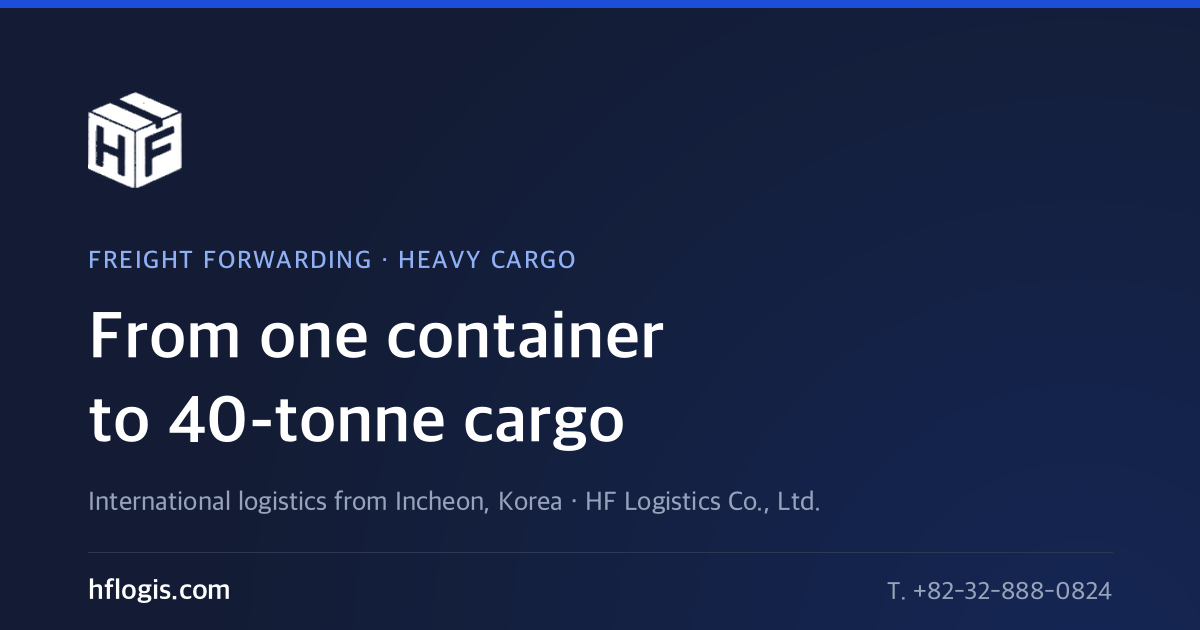
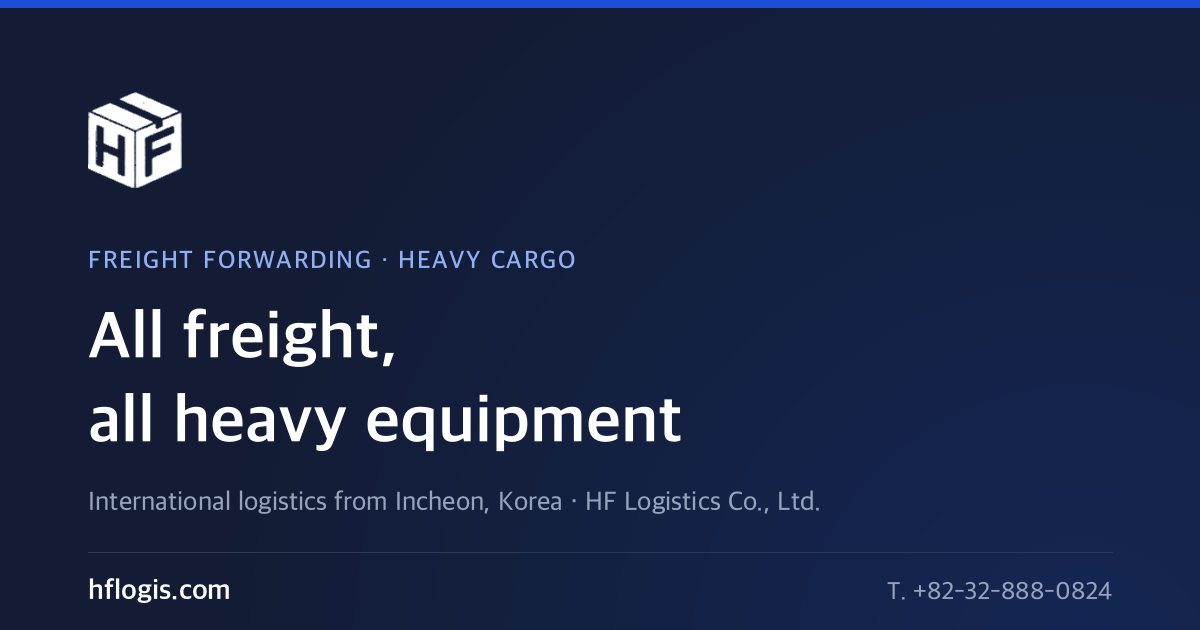
'40톤' 표현을 전면 제거
- 홈 메타 설명 / 회사소개 도입부: '컨테이너 한 박스부터 40톤 중장비까지'
  -> '화물도 중장비도'
- 홈 '왜 HF인가': '소형 택배 화물부터 40톤 건설기계까지' -> '소형 택배 화물도 중장비도'
- 공유 카드(OG) 문구 교체 후 이미지 3장 재생성
- KPI 타일 '40톤'은 숫자 타일이라 차량 보유 '77대'로 교체
  (협력사 삼복로지스틱 보유분이므로 캡션에 명시)

영어·중국어 동일 반영. 40톤은 상한으로 읽혀 취급 범위를 좁게 보이게 합니다.

Changed region(s): [[0.0617, 0.6032, 0.5858, 0.7238], [0.0617, 0.4825, 0.555, 0.6032]]

diff --git a/index.html b/index.html
@@ -4,7 +4,7 @@
 <meta charset="utf-8">
 <meta name="viewport" content="width=device-width, initial-scale=1">
 <title>HF 로지스틱스</title>
-<meta name="description" content="컨테이너 한 박스부터 40톤 중장비까지, 인천에서 시작하는 물류. 국제물류주선과 중장비 운반을 두 축으로 운영하는 주식회사 에이치에프로지스틱스.">
+<meta name="description" content="화물도 중장비도, 인천에서 시작하는 물류. 국제물류주선과 중장비 운반을 두 축으로 운영하는 주식회사 에이치에프로지스틱스.">
 <link rel="canonical" href="https://hflogis.com/">
 <link rel="alternate" hreflang="ko" href="https://hflogis.com/">
 <link rel="alternate" hreflang="en" href="https://hflogis.com/en/">
@@ -15,8 +15,8 @@
 <meta property="og:site_name" content="HF 로지스틱스">
 <meta property="og:url" content="https://hflogis.com/">
 <meta property="og:title" content="주식회사 에이치에프로지스틱스">
-<meta property="og:description" content="컨테이너 한 박스부터 40톤 중장비까지, 인천에서 시작하는 물류. 국제물류주선과 중장비 운반을 두 축으로 운영하는 주식회사 에이치에프로지스틱스.">
-<meta property="og:image" content="https://hflogis.com/assets/img/og-ko.png?v=abbba7dc">
+<meta property="og:description" content="화물도 중장비도, 인천에서 시작하는 물류. 국제물류주선과 중장비 운반을 두 축으로 운영하는 주식회사 에이치에프로지스틱스.">
+<meta property="og:image" content="https://hflogis.com/assets/img/og-ko.png?v=75df4424">
 <meta property="og:image:type" content="image/png">
 <meta property="og:image:width" content="1200">
 <meta property="og:image:height" content="630">
@@ -26,8 +26,8 @@
 <meta property="og:locale:alternate" content="zh_CN">
 <meta name="twitter:card" content="summary_large_image">
 <meta name="twitter:title" content="주식회사 에이치에프로지스틱스">
-<meta name="twitter:description" content="컨테이너 한 박스부터 40톤 중장비까지, 인천에서 시작하는 물류. 국제물류주선과 중장비 운반을 두 축으로 운영하는 주식회사 에이치에프로지스틱스.">
-<meta name="twitter:image" content="https://hflogis.com/assets/img/og-ko.png?v=abbba7dc">
+<meta name="twitter:description" content="화물도 중장비도, 인천에서 시작하는 물류. 국제물류주선과 중장비 운반을 두 축으로 운영하는 주식회사 에이치에프로지스틱스.">
+<meta name="twitter:image" content="https://hflogis.com/assets/img/og-ko.png?v=75df4424">
 <meta name="twitter:image:alt" content="HF 로지스틱스 — 국제물류주선 · 중장비 운반">
 
 <meta name="theme-color" media="(prefers-color-scheme: light)" content="#FFFFFF">
@@ -39,7 +39,7 @@
 <link rel="stylesheet" href="https://fonts.googleapis.com/css2?family=Noto+Sans+KR:wght@400;500;700;800&family=JetBrains+Mono:wght@400;500;600;700&display=swap">
 <link rel="stylesheet" href="assets/css/site.css?v=54728eac">
 <style>:root{--ff-sans:"Noto Sans KR","Pretendard",-apple-system,BlinkMacSystemFont,"Apple SD Gothic Neo",sans-serif}body{word-break:keep-all}</style>
-<script type="application/ld+json">{"@context":"https://schema.org","@type":"Organization","name":"주식회사 에이치에프로지스틱스","alternateName":"HF 로지스틱스","url":"https://hflogis.com/","logo":"https://hflogis.com/assets/img/logo-dark.png","image":"https://hflogis.com/assets/img/og-ko.png","description":"컨테이너 한 박스부터 40톤 중장비까지, 인천에서 시작하는 물류. 국제물류주선과 중장비 운반을 두 축으로 운영하는 주식회사 에이치에프로지스틱스.","telephone":"+82-32-888-0824","faxNumber":"+82-32-888-0825","email":"dydw0625@nate.com","address":{"@type":"PostalAddress","streetAddress":"인천광역시 중구 서해대로 342, 풍천빌딩 505호","addressLocality":"인천광역시","addressCountry":"KR"}}</script>
+<script type="application/ld+json">{"@context":"https://schema.org","@type":"Organization","name":"주식회사 에이치에프로지스틱스","alternateName":"HF 로지스틱스","url":"https://hflogis.com/","logo":"https://hflogis.com/assets/img/logo-dark.png","image":"https://hflogis.com/assets/img/og-ko.png","description":"화물도 중장비도, 인천에서 시작하는 물류. 국제물류주선과 중장비 운반을 두 축으로 운영하는 주식회사 에이치에프로지스틱스.","telephone":"+82-32-888-0824","faxNumber":"+82-32-888-0825","email":"dydw0625@nate.com","address":{"@type":"PostalAddress","streetAddress":"인천광역시 중구 서해대로 342, 풍천빌딩 505호","addressLocality":"인천광역시","addressCountry":"KR"}}</script>
 </head>
 <body>
 <div class="utility">
@@ -237,7 +237,7 @@
   <div class="wrap"><div class="hnav" role="tablist"><button class="hdot" type="button" role="tab" aria-selected="true" tabindex="0"><span class="n">01</span><span class="t">해상운송 FCL · LCL</span><i class="bar"></i></button><button class="hdot" type="button" role="tab" aria-selected="false" tabindex="-1"><span class="n">02</span><span class="t">항공운송 · 자유무역지역</span><i class="bar"></i></button><button class="hdot" type="button" role="tab" aria-selected="false" tabindex="-1"><span class="n">03</span><span class="t">중장비 · 중량물 운송</span><i class="bar"></i></button></div></div>
 </section>
 
-<section class="facts"><div class="wrap"><div class="grid"><div class="cell"><p class="v">2,600<small>평</small></p><p class="k">인천항 보세창고 실내면적<br>야드 1,815평 · 특허보세구역</p></div><div class="cell"><p class="v">2<small>곳</small></p><p class="k">보세 반입 거점<br>인천항 · 인천공항 자유무역지역</p></div><div class="cell"><p class="v">3<small>개</small></p><p class="k">중국 집화 거점<br>위해 운영 중 · 심천 · 항저우 예정</p></div><div class="cell"><p class="v">40<small>톤</small></p><p class="k">중장비까지 단일 창구 처리<br>소형 택배 화물부터 건설기계까지</p></div></div></div></section>
+<section class="facts"><div class="wrap"><div class="grid"><div class="cell"><p class="v">2,600<small>평</small></p><p class="k">인천항 보세창고 실내면적<br>야드 1,815평 · 특허보세구역</p></div><div class="cell"><p class="v">2<small>곳</small></p><p class="k">보세 반입 거점<br>인천항 · 인천공항 자유무역지역</p></div><div class="cell"><p class="v">3<small>개</small></p><p class="k">중국 집화 거점<br>위해 운영 중 · 심천 · 항저우 예정</p></div><div class="cell"><p class="v">77<small>대</small></p><p class="k">국내 배송 차량 운용<br>협력사 보유 기준 · 냉장 · 냉동 · 무진동 포함</p></div></div></div></section>
 
 <section class="sec"><div class="wrap">
   <div class="sec-head"><div class="t"><p class="eyebrow">Business Structure</p>
@@ -281,7 +281,7 @@
 
 <section class="sec"><div class="wrap">
   <div class="sec-head"><div class="t"><p class="eyebrow">Why HF Logistics</p><h2>HF를 선택해야 하는 이유</h2></div></div>
-  <div class="reasons"><div class="rr"><span class="n">01</span><h3>인천항 · 인천세관 인접</h3><p>본사와 운영 거점이 인천 중구에 위치합니다. 컨테이너 화물도, 중장비 부두 반입도 현장 대응 속도가 다릅니다.</p></div><div class="rr"><span class="n">02</span><h3>일반 화물과 중량물을 한 곳에서</h3><p>소형 택배 화물부터 40톤 건설기계까지 한 회사가 처리합니다. 업체를 나눠 쓰며 책임 공방할 일이 없습니다.</p></div><div class="rr"><span class="n">03</span><h3>제도 변화 선제 대응</h3><p>2026년 전자상거래 통관 개편에 맞춰 검증 · 알림 체계를 갖췄습니다. 제도 리스크를 화주사가 떠안지 않도록 합니다.</p></div><div class="rr"><span class="n">04</span><h3>중국 현지부터 국내 현장까지</h3><p>중장비는 부두에 내려놓는다고 끝이 아닙니다. 공장 상차부터 통관 · 현장 하차까지 한 창구로 갑니다.</p></div></div>
+  <div class="reasons"><div class="rr"><span class="n">01</span><h3>인천항 · 인천세관 인접</h3><p>본사와 운영 거점이 인천 중구에 위치합니다. 컨테이너 화물도, 중장비 부두 반입도 현장 대응 속도가 다릅니다.</p></div><div class="rr"><span class="n">02</span><h3>일반 화물과 중량물을 한 곳에서</h3><p>소형 택배 화물도 중장비도 한 회사가 처리합니다. 업체를 나눠 쓰며 책임 공방할 일이 없습니다.</p></div><div class="rr"><span class="n">03</span><h3>제도 변화 선제 대응</h3><p>2026년 전자상거래 통관 개편에 맞춰 검증 · 알림 체계를 갖췄습니다. 제도 리스크를 화주사가 떠안지 않도록 합니다.</p></div><div class="rr"><span class="n">04</span><h3>중국 현지부터 국내 현장까지</h3><p>중장비는 부두에 내려놓는다고 끝이 아닙니다. 공장 상차부터 통관 · 현장 하차까지 한 창구로 갑니다.</p></div></div>
 </div></section>
 
 <section class="sec panel"><div class="wrap">

diff --git a/en/index.html b/en/index.html
@@ -4,7 +4,7 @@
 <meta charset="utf-8">
 <meta name="viewport" content="width=device-width, initial-scale=1">
 <title>HF Logistics</title>
-<meta name="description" content="From a single container to 40-tonne construction equipment. HF Logistics runs freight forwarding and heavy cargo transport from Incheon, Korea.">
+<meta name="description" content="Freight and heavy equipment alike. HF Logistics runs freight forwarding and heavy cargo transport from Incheon, Korea.">
 <link rel="canonical" href="https://hflogis.com/en/">
 <link rel="alternate" hreflang="ko" href="https://hflogis.com/">
 <link rel="alternate" hreflang="en" href="https://hflogis.com/en/">
@@ -15,8 +15,8 @@
 <meta property="og:site_name" content="HF Logistics">
 <meta property="og:url" content="https://hflogis.com/en/">
 <meta property="og:title" content="HF LOGISTICS CO., LTD.">
-<meta property="og:description" content="From a single container to 40-tonne construction equipment. HF Logistics runs freight forwarding and heavy cargo transport from Incheon, Korea.">
-<meta property="og:image" content="https://hflogis.com/assets/img/og-en.png?v=abbba7dc">
+<meta property="og:description" content="Freight and heavy equipment alike. HF Logistics runs freight forwarding and heavy cargo transport from Incheon, Korea.">
+<meta property="og:image" content="https://hflogis.com/assets/img/og-en.png?v=75df4424">
 <meta property="og:image:type" content="image/png">
 <meta property="og:image:width" content="1200">
 <meta property="og:image:height" content="630">
@@ -26,8 +26,8 @@
 <meta property="og:locale:alternate" content="zh_CN">
 <meta name="twitter:card" content="summary_large_image">
 <meta name="twitter:title" content="HF LOGISTICS CO., LTD.">
-<meta name="twitter:description" content="From a single container to 40-tonne construction equipment. HF Logistics runs freight forwarding and heavy cargo transport from Incheon, Korea.">
-<meta name="twitter:image" content="https://hflogis.com/assets/img/og-en.png?v=abbba7dc">
+<meta name="twitter:description" content="Freight and heavy equipment alike. HF Logistics runs freight forwarding and heavy cargo transport from Incheon, Korea.">
+<meta name="twitter:image" content="https://hflogis.com/assets/img/og-en.png?v=75df4424">
 <meta name="twitter:image:alt" content="HF Logistics — freight forwarding and heavy cargo transport">
 
 <meta name="theme-color" media="(prefers-color-scheme: light)" content="#FFFFFF">
@@ -39,7 +39,7 @@
 <link rel="stylesheet" href="https://fonts.googleapis.com/css2?family=Inter:wght@400;500;600;700;800&family=JetBrains+Mono:wght@400;500;600;700&display=swap">
 <link rel="stylesheet" href="../assets/css/site.css?v=54728eac">
 <style>:root{--ff-sans:"Inter",-apple-system,BlinkMacSystemFont,"Segoe UI",Helvetica,Arial,sans-serif}body{word-break:normal}</style>
-<script type="application/ld+json">{"@context":"https://schema.org","@type":"Organization","name":"HF LOGISTICS CO., LTD.","alternateName":"HF Logistics","url":"https://hflogis.com/en/","logo":"https://hflogis.com/assets/img/logo-dark.png","image":"https://hflogis.com/assets/img/og-en.png","description":"From a single container to 40-tonne construction equipment. HF Logistics runs freight forwarding and heavy cargo transport from Incheon, Korea.","telephone":"+82-32-888-0824","faxNumber":"+82-32-888-0825","email":"dydw0625@nate.com","address":{"@type":"PostalAddress","streetAddress":"#505 Pungcheon Bldg, 342 Seohae-daero, Jung-gu, Incheon, Korea","addressLocality":"Incheon","addressCountry":"KR"}}</script>
+<script type="application/ld+json">{"@context":"https://schema.org","@type":"Organization","name":"HF LOGISTICS CO., LTD.","alternateName":"HF Logistics","url":"https://hflogis.com/en/","logo":"https://hflogis.com/assets/img/logo-dark.png","image":"https://hflogis.com/assets/img/og-en.png","description":"Freight and heavy equipment alike. HF Logistics runs freight forwarding and heavy cargo transport from Incheon, Korea.","telephone":"+82-32-888-0824","faxNumber":"+82-32-888-0825","email":"dydw0625@nate.com","address":{"@type":"PostalAddress","streetAddress":"#505 Pungcheon Bldg, 342 Seohae-daero, Jung-gu, Incheon, Korea","addressLocality":"Incheon","addressCountry":"KR"}}</script>
 </head>
 <body>
 <div class="utility">
@@ -237,7 +237,7 @@
   <div class="wrap"><div class="hnav" role="tablist"><button class="hdot" type="button" role="tab" aria-selected="true" tabindex="0"><span class="n">01</span><span class="t">Sea Freight FCL · LCL</span><i class="bar"></i></button><button class="hdot" type="button" role="tab" aria-selected="false" tabindex="-1"><span class="n">02</span><span class="t">Air Freight · Free Trade Zone</span><i class="bar"></i></button><button class="hdot" type="button" role="tab" aria-selected="false" tabindex="-1"><span class="n">03</span><span class="t">Heavy Cargo Transport</span><i class="bar"></i></button></div></div>
 </section>
 
-<section class="facts"><div class="wrap"><div class="grid"><div class="cell"><p class="v">8,600<small>m²</small></p><p class="k">Indoor bonded warehouse, Incheon Port<br>Plus 6,000 m² yard · Licensed bonded area</p></div><div class="cell"><p class="v">2<small>sites</small></p><p class="k">Bonded entry points<br>Incheon Port · Incheon Airport FTZ</p></div><div class="cell"><p class="v">3<small>hubs</small></p><p class="k">Consolidation hubs in China<br>Weihai live · Shenzhen &amp; Hangzhou planned</p></div><div class="cell"><p class="v">40<small>t</small></p><p class="k">Handled through one desk<br>From parcels to construction equipment</p></div></div></div></section>
+<section class="facts"><div class="wrap"><div class="grid"><div class="cell"><p class="v">8,600<small>m²</small></p><p class="k">Indoor bonded warehouse, Incheon Port<br>Plus 6,000 m² yard · Licensed bonded area</p></div><div class="cell"><p class="v">2<small>sites</small></p><p class="k">Bonded entry points<br>Incheon Port · Incheon Airport FTZ</p></div><div class="cell"><p class="v">3<small>hubs</small></p><p class="k">Consolidation hubs in China<br>Weihai live · Shenzhen &amp; Hangzhou planned</p></div><div class="cell"><p class="v">77<small>units</small></p><p class="k">Domestic delivery vehicles<br>Partner fleet &#183; incl. refrigerated, frozen and air-ride</p></div></div></div></section>
 
 <section class="sec"><div class="wrap">
   <div class="sec-head"><div class="t"><p class="eyebrow">Business Structure</p>
@@ -281,7 +281,7 @@
 
 <section class="sec"><div class="wrap">
   <div class="sec-head"><div class="t"><p class="eyebrow">Why HF Logistics</p><h2>Why shippers choose HF</h2></div></div>
-  <div class="reasons"><div class="rr"><span class="n">01</span><h3>Next to Incheon Port and Customs</h3><p>Our head office and operations sit in Jung-gu, Incheon. That proximity shows in how fast we respond, for containers and for heavy equipment alike.</p></div><div class="rr"><span class="n">02</span><h3>General cargo and heavy lift in one place</h3><p>One company handles everything from small parcels to 40-tonne machines. No splitting work between vendors and no arguments over who is responsible.</p></div><div class="rr"><span class="n">03</span><h3>Ahead of regulatory change</h3><p>We built our verification and alerting workflow for Korea's 2026 e-commerce customs reform, so the regulatory risk does not land on the shipper.</p></div><div class="rr"><span class="n">04</span><h3>From the Chinese factory to the Korean site</h3><p>Heavy equipment is not finished when it lands at the quay. Loading at the factory, clearance and final drop-off all run through one desk.</p></div></div>
+  <div class="reasons"><div class="rr"><span class="n">01</span><h3>Next to Incheon Port and Customs</h3><p>Our head office and operations sit in Jung-gu, Incheon. That proximity shows in how fast we respond, for containers and for heavy equipment alike.</p></div><div class="rr"><span class="n">02</span><h3>General cargo and heavy lift in one place</h3><p>One company handles everything from small parcels to heavy machinery. No splitting work between vendors and no arguments over who is responsible.</p></div><div class="rr"><span class="n">03</span><h3>Ahead of regulatory change</h3><p>We built our verification and alerting workflow for Korea's 2026 e-commerce customs reform, so the regulatory risk does not land on the shipper.</p></div><div class="rr"><span class="n">04</span><h3>From the Chinese factory to the Korean site</h3><p>Heavy equipment is not finished when it lands at the quay. Loading at the factory, clearance and final drop-off all run through one desk.</p></div></div>
 </div></section>
 
 <section class="sec panel"><div class="wrap">

diff --git a/zh/index.html b/zh/index.html
@@ -4,7 +4,7 @@
 <meta charset="utf-8">
 <meta name="viewport" content="width=device-width, initial-scale=1">
 <title>HF物流</title>
-<meta name="description" content="从一个集装箱到40吨重型设备，物流始于仁川。HF物流以国际物流运输代理和重型设备运输为两大支柱。">
+<meta name="description" content="货物与重型设备，物流始于仁川。HF物流以国际物流运输代理和重型设备运输为两大支柱。">
 <link rel="canonical" href="https://hflogis.com/zh/">
 <link rel="alternate" hreflang="ko" href="https://hflogis.com/">
 <link rel="alternate" hreflang="en" href="https://hflogis.com/en/">
@@ -15,8 +15,8 @@
 <meta property="og:site_name" content="HF物流">
 <meta property="og:url" content="https://hflogis.com/zh/">
 <meta property="og:title" content="HF物流株式会社">
-<meta property="og:description" content="从一个集装箱到40吨重型设备，物流始于仁川。HF物流以国际物流运输代理和重型设备运输为两大支柱。">
-<meta property="og:image" content="https://hflogis.com/assets/img/og-zh.png?v=abbba7dc">
+<meta property="og:description" content="货物与重型设备，物流始于仁川。HF物流以国际物流运输代理和重型设备运输为两大支柱。">
+<meta property="og:image" content="https://hflogis.com/assets/img/og-zh.png?v=75df4424">
 <meta property="og:image:type" content="image/png">
 <meta property="og:image:width" content="1200">
 <meta property="og:image:height" content="630">
@@ -26,8 +26,8 @@
 <meta property="og:locale:alternate" content="en_US">
 <meta name="twitter:card" content="summary_large_image">
 <meta name="twitter:title" content="HF物流株式会社">
-<meta name="twitter:description" content="从一个集装箱到40吨重型设备，物流始于仁川。HF物流以国际物流运输代理和重型设备运输为两大支柱。">
-<meta name="twitter:image" content="https://hflogis.com/assets/img/og-zh.png?v=abbba7dc">
+<meta name="twitter:description" content="货物与重型设备，物流始于仁川。HF物流以国际物流运输代理和重型设备运输为两大支柱。">
+<meta name="twitter:image" content="https://hflogis.com/assets/img/og-zh.png?v=75df4424">
 <meta name="twitter:image:alt" content="HF物流 — 国际物流运输 · 重型设备运输">
 
 <meta name="theme-color" media="(prefers-color-scheme: light)" content="#FFFFFF">
@@ -39,7 +39,7 @@
 <link rel="stylesheet" href="https://fonts.googleapis.com/css2?family=Noto+Sans+SC:wght@400;500;700;900&family=JetBrains+Mono:wght@400;500;600;700&display=swap">
 <link rel="stylesheet" href="../assets/css/site.css?v=54728eac">
 <style>:root{--ff-sans:"Noto Sans SC","PingFang SC","Microsoft YaHei",-apple-system,sans-serif}body{word-break:normal}</style>
-<script type="application/ld+json">{"@context":"https://schema.org","@type":"Organization","name":"HF物流株式会社","alternateName":"HF物流","url":"https://hflogis.com/zh/","logo":"https://hflogis.com/assets/img/logo-dark.png","image":"https://hflogis.com/assets/img/og-zh.png","description":"从一个集装箱到40吨重型设备，物流始于仁川。HF物流以国际物流运输代理和重型设备运输为两大支柱。","telephone":"+82-32-888-0824","faxNumber":"+82-32-888-0825","email":"dydw0625@nate.com","address":{"@type":"PostalAddress","streetAddress":"韩国仁川广域市中区西海大路342号 丰川大厦505室","addressLocality":"仁川","addressCountry":"KR"}}</script>
+<script type="application/ld+json">{"@context":"https://schema.org","@type":"Organization","name":"HF物流株式会社","alternateName":"HF物流","url":"https://hflogis.com/zh/","logo":"https://hflogis.com/assets/img/logo-dark.png","image":"https://hflogis.com/assets/img/og-zh.png","description":"货物与重型设备，物流始于仁川。HF物流以国际物流运输代理和重型设备运输为两大支柱。","telephone":"+82-32-888-0824","faxNumber":"+82-32-888-0825","email":"dydw0625@nate.com","address":{"@type":"PostalAddress","streetAddress":"韩国仁川广域市中区西海大路342号 丰川大厦505室","addressLocality":"仁川","addressCountry":"KR"}}</script>
 </head>
 <body>
 <div class="utility">
@@ -237,7 +237,7 @@
   <div class="wrap"><div class="hnav" role="tablist"><button class="hdot" type="button" role="tab" aria-selected="true" tabindex="0"><span class="n">01</span><span class="t">海运 FCL · LCL</span><i class="bar"></i></button><button class="hdot" type="button" role="tab" aria-selected="false" tabindex="-1"><span class="n">02</span><span class="t">空运 · 自由贸易区</span><i class="bar"></i></button><button class="hdot" type="button" role="tab" aria-selected="false" tabindex="-1"><span class="n">03</span><span class="t">重型设备运输</span><i class="bar"></i></button></div></div>
 </section>
 
-<section class="facts"><div class="wrap"><div class="grid"><div class="cell"><p class="v">8,600<small>㎡</small></p><p class="k">仁川港保税仓库室内面积<br>另有堆场6,000㎡ · 特许保税区</p></div><div class="cell"><p class="v">2<small>处</small></p><p class="k">保税入库据点<br>仁川港 · 仁川机场自由贸易区</p></div><div class="cell"><p class="v">3<small>个</small></p><p class="k">中国集货据点<br>威海运营中 · 深圳、杭州筹备中</p></div><div class="cell"><p class="v">40<small>吨</small></p><p class="k">最重可单一窗口处理<br>从小件快递到工程机械</p></div></div></div></section>
+<section class="facts"><div class="wrap"><div class="grid"><div class="cell"><p class="v">8,600<small>㎡</small></p><p class="k">仁川港保税仓库室内面积<br>另有堆场6,000㎡ · 特许保税区</p></div><div class="cell"><p class="v">2<small>处</small></p><p class="k">保税入库据点<br>仁川港 · 仁川机场自由贸易区</p></div><div class="cell"><p class="v">3<small>个</small></p><p class="k">中国集货据点<br>威海运营中 · 深圳、杭州筹备中</p></div><div class="cell"><p class="v">77<small>辆</small></p><p class="k">韩国境内配送车辆<br>合作方保有 · 含冷藏、冷冻、无振动车辆</p></div></div></div></section>
 
 <section class="sec"><div class="wrap">
   <div class="sec-head"><div class="t"><p class="eyebrow">Business Structure</p>
@@ -281,7 +281,7 @@
 
 <section class="sec"><div class="wrap">
   <div class="sec-head"><div class="t"><p class="eyebrow">Why HF Logistics</p><h2>选择HF的理由</h2></div></div>
-  <div class="reasons"><div class="rr"><span class="n">01</span><h3>毗邻仁川港与仁川海关</h3><p>总部与运营据点位于仁川中区。无论是集装箱货物还是重型设备进港，现场响应速度都不一样。</p></div><div class="rr"><span class="n">02</span><h3>普货与重件一站处理</h3><p>从小件快递到40吨工程机械，由一家公司完成。无需分包给多家，也不会出现责任推诿。</p></div><div class="rr"><span class="n">03</span><h3>提前应对制度变化</h3><p>已按2026年跨境电商通关改革建立验证与提醒机制，不让制度风险落到货主身上。</p></div><div class="rr"><span class="n">04</span><h3>从中国现场到韩国工地</h3><p>重型设备卸到码头并不算结束。从工厂装车到通关、现场卸车，全程一个窗口。</p></div></div>
+  <div class="reasons"><div class="rr"><span class="n">01</span><h3>毗邻仁川港与仁川海关</h3><p>总部与运营据点位于仁川中区。无论是集装箱货物还是重型设备进港，现场响应速度都不一样。</p></div><div class="rr"><span class="n">02</span><h3>普货与重件一站处理</h3><p>从小件快递到重型设备，由一家公司完成。无需分包给多家，也不会出现责任推诿。</p></div><div class="rr"><span class="n">03</span><h3>提前应对制度变化</h3><p>已按2026年跨境电商通关改革建立验证与提醒机制，不让制度风险落到货主身上。</p></div><div class="rr"><span class="n">04</span><h3>从中国现场到韩国工地</h3><p>重型设备卸到码头并不算结束。从工厂装车到通关、现场卸车，全程一个窗口。</p></div></div>
 </div></section>
 
 <section class="sec panel"><div class="wrap">

diff --git a/about.html b/about.html
@@ -16,7 +16,7 @@
 <meta property="og:url" content="https://hflogis.com/about.html">
 <meta property="og:title" content="회사소개">
 <meta property="og:description" content="주식회사 에이치에프로지스틱스 회사 개요, 사업 구조, 사업영역, 연혁. 인천항·인천세관 인접 거점에서 종합물류와 중장비 두 부문을 운영합니다.">
-<meta property="og:image" content="https://hflogis.com/assets/img/og-ko.png?v=abbba7dc">
+<meta property="og:image" content="https://hflogis.com/assets/img/og-ko.png?v=75df4424">
 <meta property="og:image:type" content="image/png">
 <meta property="og:image:width" content="1200">
 <meta property="og:image:height" content="630">
@@ -27,7 +27,7 @@
 <meta name="twitter:card" content="summary_large_image">
 <meta name="twitter:title" content="회사소개">
 <meta name="twitter:description" content="주식회사 에이치에프로지스틱스 회사 개요, 사업 구조, 사업영역, 연혁. 인천항·인천세관 인접 거점에서 종합물류와 중장비 두 부문을 운영합니다.">
-<meta name="twitter:image" content="https://hflogis.com/assets/img/og-ko.png?v=abbba7dc">
+<meta name="twitter:image" content="https://hflogis.com/assets/img/og-ko.png?v=75df4424">
 <meta name="twitter:image:alt" content="HF 로지스틱스 — 국제물류주선 · 중장비 운반">
 
 <meta name="theme-color" media="(prefers-color-scheme: light)" content="#FFFFFF">
@@ -73,7 +73,7 @@
   <div class="wrap">
     <p class="crumb"><a href="index.html">HOME</a> &nbsp;/&nbsp; COMPANY</p>
     <h1>회사소개</h1>
-    <p class="lede">컨테이너 한 박스부터 40톤 중장비까지, 인천에서 시작하는 물류. 인천항과 인천세관을 곁에 두고 국제물류주선업과 중장비 운반업을 두 축으로 운영합니다.</p>
+    <p class="lede">화물도 중장비도, 인천에서 시작하는 물류. 인천항과 인천세관을 곁에 두고 국제물류주선업과 중장비 운반업을 두 축으로 운영합니다.</p>
   </div>
 </section>
 
@@ -115,7 +115,7 @@
 
 <section class="sec"><div class="wrap">
   <div class="sec-head"><div class="t"><p class="eyebrow">Why HF Logistics</p><h2>HF를 선택해야 하는 이유</h2></div></div>
-  <div class="reasons"><div class="rr"><span class="n">01</span><h3>인천항 · 인천세관 인접</h3><p>본사와 운영 거점이 인천 중구에 위치합니다. 컨테이너 화물도, 중장비 부두 반입도 현장 대응 속도가 다릅니다.</p></div><div class="rr"><span class="n">02</span><h3>일반 화물과 중량물을 한 곳에서</h3><p>소형 택배 화물부터 40톤 건설기계까지 한 회사가 처리합니다. 업체를 나눠 쓰며 책임 공방할 일이 없습니다.</p></div><div class="rr"><span class="n">03</span><h3>제도 변화 선제 대응</h3><p>2026년 전자상거래 통관 개편에 맞춰 검증 · 알림 체계를 갖췄습니다. 제도 리스크를 화주사가 떠안지 않도록 합니다.</p></div><div class="rr"><span class="n">04</span><h3>중국 현지부터 국내 현장까지</h3><p>중장비는 부두에 내려놓는다고 끝이 아닙니다. 공장 상차부터 통관 · 현장 하차까지 한 창구로 갑니다.</p></div></div>
+  <div class="reasons"><div class="rr"><span class="n">01</span><h3>인천항 · 인천세관 인접</h3><p>본사와 운영 거점이 인천 중구에 위치합니다. 컨테이너 화물도, 중장비 부두 반입도 현장 대응 속도가 다릅니다.</p></div><div class="rr"><span class="n">02</span><h3>일반 화물과 중량물을 한 곳에서</h3><p>소형 택배 화물도 중장비도 한 회사가 처리합니다. 업체를 나눠 쓰며 책임 공방할 일이 없습니다.</p></div><div class="rr"><span class="n">03</span><h3>제도 변화 선제 대응</h3><p>2026년 전자상거래 통관 개편에 맞춰 검증 · 알림 체계를 갖췄습니다. 제도 리스크를 화주사가 떠안지 않도록 합니다.</p></div><div class="rr"><span class="n">04</span><h3>중국 현지부터 국내 현장까지</h3><p>중장비는 부두에 내려놓는다고 끝이 아닙니다. 공장 상차부터 통관 · 현장 하차까지 한 창구로 갑니다.</p></div></div>
 </div></section>
 
 <footer class="foot">

diff --git a/en/about.html b/en/about.html
@@ -16,7 +16,7 @@
 <meta property="og:url" content="https://hflogis.com/en/about.html">
 <meta property="og:title" content="Company">
 <meta property="og:description" content="Company profile, business structure, scope and history of HF Logistics, running freight forwarding and heavy cargo transport from a base next to Incheon Port and Incheon Customs.">
-<meta property="og:image" content="https://hflogis.com/assets/img/og-en.png?v=abbba7dc">
+<meta property="og:image" content="https://hflogis.com/assets/img/og-en.png?v=75df4424">
 <meta property="og:image:type" content="image/png">
 <meta property="og:image:width" content="1200">
 <meta property="og:image:height" content="630">
@@ -27,7 +27,7 @@
 <meta name="twitter:card" content="summary_large_image">
 <meta name="twitter:title" content="Company">
 <meta name="twitter:description" content="Company profile, business structure, scope and history of HF Logistics, running freight forwarding and heavy cargo transport from a base next to Incheon Port and Incheon Customs.">
-<meta name="twitter:image" content="https://hflogis.com/assets/img/og-en.png?v=abbba7dc">
+<meta name="twitter:image" content="https://hflogis.com/assets/img/og-en.png?v=75df4424">
 <meta name="twitter:image:alt" content="HF Logistics — freight forwarding and heavy cargo transport">
 
 <meta name="theme-color" media="(prefers-color-scheme: light)" content="#FFFFFF">
@@ -73,7 +73,7 @@
   <div class="wrap">
     <p class="crumb"><a href="index.html">HOME</a> &nbsp;/&nbsp; COMPANY</p>
     <h1>About HF Logistics</h1>
-    <p class="lede">From a single container to 40-tonne construction equipment, logistics that starts in Incheon. We run freight forwarding and heavy cargo haulage as two divisions, with Incheon Port and Incheon Customs on our doorstep.</p>
+    <p class="lede">Freight and heavy equipment alike, logistics that starts in Incheon. We run freight forwarding and heavy cargo haulage as two divisions, with Incheon Port and Incheon Customs on our doorstep.</p>
   </div>
 </section>
 
@@ -115,7 +115,7 @@
 
 <section class="sec"><div class="wrap">
   <div class="sec-head"><div class="t"><p class="eyebrow">Why HF Logistics</p><h2>Why shippers choose HF</h2></div></div>
-  <div class="reasons"><div class="rr"><span class="n">01</span><h3>Next to Incheon Port and Customs</h3><p>Our head office and operations sit in Jung-gu, Incheon. That proximity shows in how fast we respond, for containers and for heavy equipment alike.</p></div><div class="rr"><span class="n">02</span><h3>General cargo and heavy lift in one place</h3><p>One company handles everything from small parcels to 40-tonne machines. No splitting work between vendors and no arguments over who is responsible.</p></div><div class="rr"><span class="n">03</span><h3>Ahead of regulatory change</h3><p>We built our verification and alerting workflow for Korea's 2026 e-commerce customs reform, so the regulatory risk does not land on the shipper.</p></div><div class="rr"><span class="n">04</span><h3>From the Chinese factory to the Korean site</h3><p>Heavy equipment is not finished when it lands at the quay. Loading at the factory, clearance and final drop-off all run through one desk.</p></div></div>
+  <div class="reasons"><div class="rr"><span class="n">01</span><h3>Next to Incheon Port and Customs</h3><p>Our head office and operations sit in Jung-gu, Incheon. That proximity shows in how fast we respond, for containers and for heavy equipment alike.</p></div><div class="rr"><span class="n">02</span><h3>General cargo and heavy lift in one place</h3><p>One company handles everything from small parcels to heavy machinery. No splitting work between vendors and no arguments over who is responsible.</p></div><div class="rr"><span class="n">03</span><h3>Ahead of regulatory change</h3><p>We built our verification and alerting workflow for Korea's 2026 e-commerce customs reform, so the regulatory risk does not land on the shipper.</p></div><div class="rr"><span class="n">04</span><h3>From the Chinese factory to the Korean site</h3><p>Heavy equipment is not finished when it lands at the quay. Loading at the factory, clearance and final drop-off all run through one desk.</p></div></div>
 </div></section>
 
 <footer class="foot">

diff --git a/zh/about.html b/zh/about.html
@@ -16,7 +16,7 @@
 <meta property="og:url" content="https://hflogis.com/zh/about.html">
 <meta property="og:title" content="公司介绍">
 <meta property="og:description" content="HF物流株式会社的公司概况、业务结构、经营范围与发展历程。以毗邻仁川港与仁川海关的据点，运营综合物流与重型设备两大业务。">
-<meta property="og:image" content="https://hflogis.com/assets/img/og-zh.png?v=abbba7dc">
+<meta property="og:image" content="https://hflogis.com/assets/img/og-zh.png?v=75df4424">
 <meta property="og:image:type" content="image/png">
 <meta property="og:image:width" content="1200">
 <meta property="og:image:height" content="630">
@@ -27,7 +27,7 @@
 <meta name="twitter:card" content="summary_large_image">
 <meta name="twitter:title" content="公司介绍">
 <meta name="twitter:description" content="HF物流株式会社的公司概况、业务结构、经营范围与发展历程。以毗邻仁川港与仁川海关的据点，运营综合物流与重型设备两大业务。">
-<meta name="twitter:image" content="https://hflogis.com/assets/img/og-zh.png?v=abbba7dc">
+<meta name="twitter:image" content="https://hflogis.com/assets/img/og-zh.png?v=75df4424">
 <meta name="twitter:image:alt" content="HF物流 — 国际物流运输 · 重型设备运输">
 
 <meta name="theme-color" media="(prefers-color-scheme: light)" content="#FFFFFF">
@@ -73,7 +73,7 @@
   <div class="wrap">
     <p class="crumb"><a href="index.html">首页</a> &nbsp;/&nbsp; COMPANY</p>
     <h1>公司介绍</h1>
-    <p class="lede">从一个集装箱到40吨重型设备，物流始于仁川。我们毗邻仁川港与仁川海关，以国际物流运输代理和重型设备运输为两大支柱。</p>
+    <p class="lede">货物与重型设备，物流始于仁川。我们毗邻仁川港与仁川海关，以国际物流运输代理和重型设备运输为两大支柱。</p>
   </div>
 </section>
 
@@ -115,7 +115,7 @@
 
 <section class="sec"><div class="wrap">
   <div class="sec-head"><div class="t"><p class="eyebrow">Why HF Logistics</p><h2>选择HF的理由</h2></div></div>
-  <div class="reasons"><div class="rr"><span class="n">01</span><h3>毗邻仁川港与仁川海关</h3><p>总部与运营据点位于仁川中区。无论是集装箱货物还是重型设备进港，现场响应速度都不一样。</p></div><div class="rr"><span class="n">02</span><h3>普货与重件一站处理</h3><p>从小件快递到40吨工程机械，由一家公司完成。无需分包给多家，也不会出现责任推诿。</p></div><div class="rr"><span class="n">03</span><h3>提前应对制度变化</h3><p>已按2026年跨境电商通关改革建立验证与提醒机制，不让制度风险落到货主身上。</p></div><div class="rr"><span class="n">04</span><h3>从中国现场到韩国工地</h3><p>重型设备卸到码头并不算结束。从工厂装车到通关、现场卸车，全程一个窗口。</p></div></div>
+  <div class="reasons"><div class="rr"><span class="n">01</span><h3>毗邻仁川港与仁川海关</h3><p>总部与运营据点位于仁川中区。无论是集装箱货物还是重型设备进港，现场响应速度都不一样。</p></div><div class="rr"><span class="n">02</span><h3>普货与重件一站处理</h3><p>从小件快递到重型设备，由一家公司完成。无需分包给多家，也不会出现责任推诿。</p></div><div class="rr"><span class="n">03</span><h3>提前应对制度变化</h3><p>已按2026年跨境电商通关改革建立验证与提醒机制，不让制度风险落到货主身上。</p></div><div class="rr"><span class="n">04</span><h3>从中国现场到韩国工地</h3><p>重型设备卸到码头并不算结束。从工厂装车到通关、现场卸车，全程一个窗口。</p></div></div>
 </div></section>
 
 <footer class="foot">

diff --git a/en/repair.html b/en/repair.html
@@ -16,7 +16,7 @@
 <meta property="og:url" content="https://hflogis.com/en/repair.html">
 <meta property="og:title" content="Bonded Reconditioning">
 <meta property="og:description" content="Reconditioning under bond per Article 158 of the Korean Customs Act — country-of-origin marking, Korean-language labelling, KC certification marks, misprinted labels and repacking, carried out at our Incheon Port bonded warehouse.">
-<meta property="og:image" content="https://hflogis.com/assets/img/og-en.png?v=abbba7dc">
+<meta property="og:image" content="https://hflogis.com/assets/img/og-en.png?v=75df4424">
 <meta property="og:image:type" content="image/png">
 <meta property="og:image:width" content="1200">
 <meta property="og:image:height" content="630">
@@ -27,7 +27,7 @@
 <meta name="twitter:card" content="summary_large_image">
 <meta name="twitter:title" content="Bonded Reconditioning">
 <meta name="twitter:description" content="Reconditioning under bond per Article 158 of the Korean Customs Act — country-of-origin marking, Korean-language labelling, KC certification marks, misprinted labels and repacking, carried out at our Incheon Port bonded warehouse.">
-<meta name="twitter:image" content="https://hflogis.com/assets/img/og-en.png?v=abbba7dc">
+<meta name="twitter:image" content="https://hflogis.com/assets/img/og-en.png?v=75df4424">
 <meta name="twitter:image:alt" content="HF Logistics — freight forwarding and heavy cargo transport">
 
 <meta name="theme-color" media="(prefers-color-scheme: light)" content="#FFFFFF">

diff --git a/en/network.html b/en/network.html
@@ -16,7 +16,7 @@
 <meta property="og:url" content="https://hflogis.com/en/network.html">
 <meta property="og:title" content="Network &amp; Facilities">
 <meta property="og:description" content="From the Weihai consolidation hub in China to the Incheon Port bonded warehouse, the Incheon Airport Free Trade Zone warehouse and domestic delivery, run with partners Sky International Transport and Sambok Logistic.">
-<meta property="og:image" content="https://hflogis.com/assets/img/og-en.png?v=abbba7dc">
+<meta property="og:image" content="https://hflogis.com/assets/img/og-en.png?v=75df4424">
 <meta property="og:image:type" content="image/png">
 <meta property="og:image:width" content="1200">
 <meta property="og:image:height" content="630">
@@ -27,7 +27,7 @@
 <meta name="twitter:card" content="summary_large_image">
 <meta name="twitter:title" content="Network &amp; Facilities">
 <meta name="twitter:description" content="From the Weihai consolidation hub in China to the Incheon Port bonded warehouse, the Incheon Airport Free Trade Zone warehouse and domestic delivery, run with partners Sky International Transport and Sambok Logistic.">
-<meta name="twitter:image" content="https://hflogis.com/assets/img/og-en.png?v=abbba7dc">
+<meta name="twitter:image" content="https://hflogis.com/assets/img/og-en.png?v=75df4424">
 <meta name="twitter:image:alt" content="HF Logistics — freight forwarding and heavy cargo transport">
 
 <meta name="theme-color" media="(prefers-color-scheme: light)" content="#FFFFFF">

diff --git a/network.html b/network.html
@@ -16,7 +16,7 @@
 <meta property="og:url" content="https://hflogis.com/network.html">
 <meta property="og:title" content="네트워크 · 인프라">
 <meta property="og:description" content="중국 위해 집화 거점부터 인천항 보세창고, 인천공항 자유무역지역 창고, 국내 배송망까지. 협력사 ㈜스카이국제운송 · 삼복로지스틱㈜와 함께 운영합니다.">
-<meta property="og:image" content="https://hflogis.com/assets/img/og-ko.png?v=abbba7dc">
+<meta property="og:image" content="https://hflogis.com/assets/img/og-ko.png?v=75df4424">
 <meta property="og:image:type" content="image/png">
 <meta property="og:image:width" content="1200">
 <meta property="og:image:height" content="630">
@@ -27,7 +27,7 @@
 <meta name="twitter:card" content="summary_large_image">
 <meta name="twitter:title" content="네트워크 · 인프라">
 <meta name="twitter:description" content="중국 위해 집화 거점부터 인천항 보세창고, 인천공항 자유무역지역 창고, 국내 배송망까지. 협력사 ㈜스카이국제운송 · 삼복로지스틱㈜와 함께 운영합니다.">
-<meta name="twitter:image" content="https://hflogis.com/assets/img/og-ko.png?v=abbba7dc">
+<meta name="twitter:image" content="https://hflogis.com/assets/img/og-ko.png?v=75df4424">
 <meta name="twitter:image:alt" content="HF 로지스틱스 — 국제물류주선 · 중장비 운반">
 
 <meta name="theme-color" media="(prefers-color-scheme: light)" content="#FFFFFF">

diff --git a/zh/repair.html b/zh/repair.html
@@ -16,7 +16,7 @@
 <meta property="og:url" content="https://hflogis.com/zh/repair.html">
 <meta property="og:title" content="保税整理作业">
 <meta property="og:description" content="依据韩国《关税法》第158条实施的保税整理作业代理 — 原产地标识、韩文标示事项、KC认证标识、标签印错、重新包装，均在仁川港保税仓库内直接完成。">
-<meta property="og:image" content="https://hflogis.com/assets/img/og-zh.png?v=abbba7dc">
+<meta property="og:image" content="https://hflogis.com/assets/img/og-zh.png?v=75df4424">
 <meta property="og:image:type" content="image/png">
 <meta property="og:image:width" content="1200">
 <meta property="og:image:height" content="630">
@@ -27,7 +27,7 @@
 <meta name="twitter:card" content="summary_large_image">
 <meta name="twitter:title" content="保税整理作业">
 <meta name="twitter:description" content="依据韩国《关税法》第158条实施的保税整理作业代理 — 原产地标识、韩文标示事项、KC认证标识、标签印错、重新包装，均在仁川港保税仓库内直接完成。">
-<meta name="twitter:image" content="https://hflogis.com/assets/img/og-zh.png?v=abbba7dc">
+<meta name="twitter:image" content="https://hflogis.com/assets/img/og-zh.png?v=75df4424">
 <meta name="twitter:image:alt" content="HF物流 — 国际物流运输 · 重型设备运输">
 
 <meta name="theme-color" media="(prefers-color-scheme: light)" content="#FFFFFF">

diff --git a/repair.html b/repair.html
@@ -16,7 +16,7 @@
 <meta property="og:url" content="https://hflogis.com/repair.html">
 <meta property="og:title" content="보수작업 대행">
 <meta property="og:description" content="관세법 제158조에 따른 보세 보수작업 대행. 원산지 표시, 한글 표시사항, KC 인증 표기, 라벨 오기, 재포장까지 인천항 보세창고에서 직접 수행합니다.">
-<meta property="og:image" content="https://hflogis.com/assets/img/og-ko.png?v=abbba7dc">
+<meta property="og:image" content="https://hflogis.com/assets/img/og-ko.png?v=75df4424">
 <meta property="og:image:type" content="image/png">
 <meta property="og:image:width" content="1200">
 <meta property="og:image:height" content="630">
@@ -27,7 +27,7 @@
 <meta name="twitter:card" content="summary_large_image">
 <meta name="twitter:title" content="보수작업 대행">
 <meta name="twitter:description" content="관세법 제158조에 따른 보세 보수작업 대행. 원산지 표시, 한글 표시사항, KC 인증 표기, 라벨 오기, 재포장까지 인천항 보세창고에서 직접 수행합니다.">
-<meta name="twitter:image" content="https://hflogis.com/assets/img/og-ko.png?v=abbba7dc">
+<meta name="twitter:image" content="https://hflogis.com/assets/img/og-ko.png?v=75df4424">
 <meta name="twitter:image:alt" content="HF 로지스틱스 — 국제물류주선 · 중장비 운반">
 
 <meta name="theme-color" media="(prefers-color-scheme: light)" content="#FFFFFF">

diff --git a/services.html b/services.html
@@ -16,7 +16,7 @@
 <meta property="og:url" content="https://hflogis.com/services.html">
 <meta property="og:title" content="서비스">
 <meta property="og:description" content="국제물류주선(포워딩), 3PL·풀필먼트, 전자상거래 물류, 통관 대응, 보세창고 보관·보수작업, 국내 배송·반품까지 HF 로지스틱스 종합물류 부문 서비스.">
-<meta property="og:image" content="https://hflogis.com/assets/img/og-ko.png?v=abbba7dc">
+<meta property="og:image" content="https://hflogis.com/assets/img/og-ko.png?v=75df4424">
 <meta property="og:image:type" content="image/png">
 <meta property="og:image:width" content="1200">
 <meta property="og:image:height" content="630">
@@ -27,7 +27,7 @@
 <meta name="twitter:card" content="summary_large_image">
 <meta name="twitter:title" content="서비스">
 <meta name="twitter:description" content="국제물류주선(포워딩), 3PL·풀필먼트, 전자상거래 물류, 통관 대응, 보세창고 보관·보수작업, 국내 배송·반품까지 HF 로지스틱스 종합물류 부문 서비스.">
-<meta name="twitter:image" content="https://hflogis.com/assets/img/og-ko.png?v=abbba7dc">
+<meta name="twitter:image" content="https://hflogis.com/assets/img/og-ko.png?v=75df4424">
 <meta name="twitter:image:alt" content="HF 로지스틱스 — 국제물류주선 · 중장비 운반">
 
 <meta name="theme-color" media="(prefers-color-scheme: light)" content="#FFFFFF">
